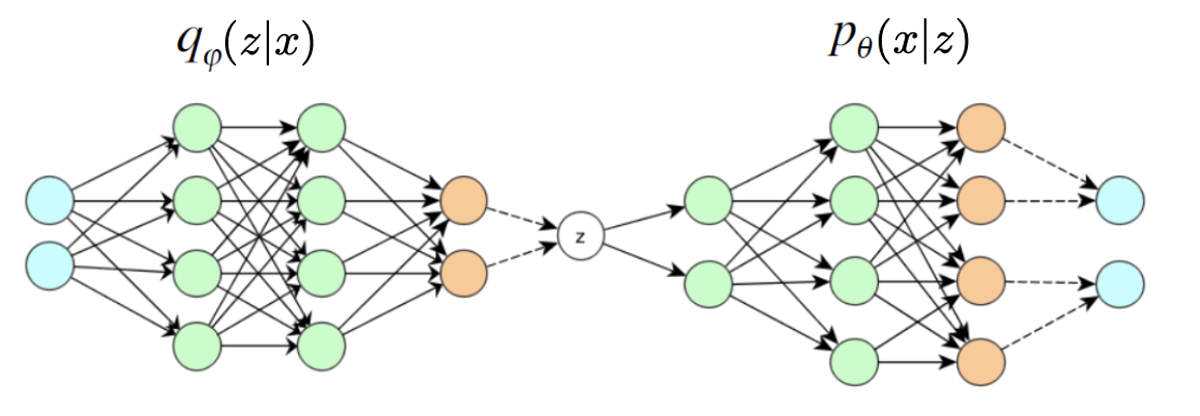
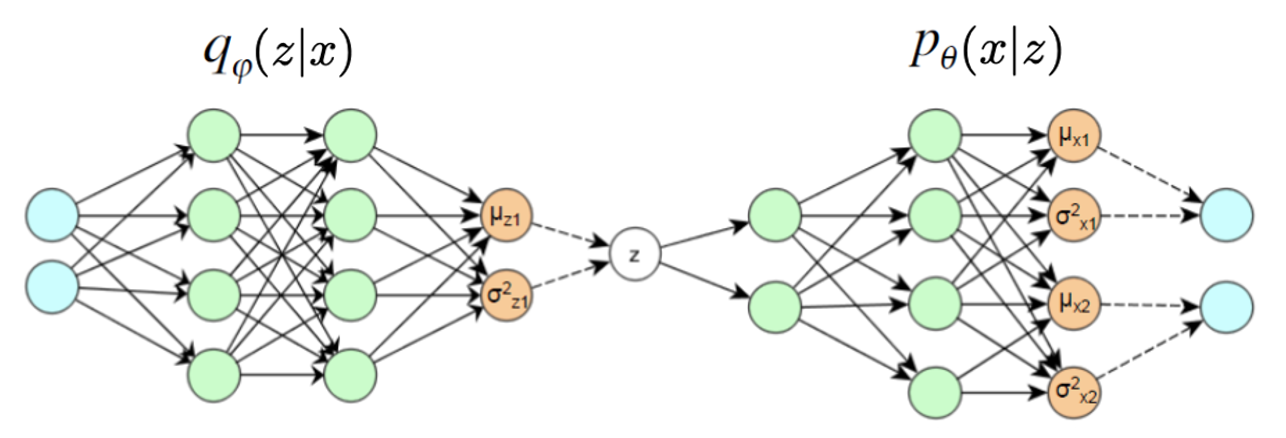
add vae for generation

Changed region(s): [[0.0, 0.25, 0.9867, 0.9688], [0.6783, 0.0312, 0.8325, 0.1562], [0.1233, 0.0625, 0.2775, 0.1875]]

diff --git a/37-neural-networks/13-variational-autoencoders.md b/37-neural-networks/13-variational-autoencoders.md
@@ -208,4 +208,27 @@ Interpretable dimensions of discrete variation dimensions can be
 
 Or, the representation just learn signal and get rid of noise.
 
+
+## Generation
+
+- Option 1. Draw z from the prior, feed through decoder to generate. [[Details](https://blog.openai.com/generative-models/)]
+
+- Option 2: Generation based on one or more examples $\boldsymbol{x}$
+
+  - Draw $\boldsymbol{z}$ from $q(\boldsymbol{z} |\boldsymbol{x})$
+  - Optionally, adjust $\boldsymbol{z}$ (e.g. interpolate between multiple samples $\boldsymbol{x} $)
+  - Feed through the decoder to generate more examples
+
+:::{figure} vae-generation
+<img src="../imgs/vae-generation.png" width = "60%" alt=""/>
+
+VAE for generation
+:::
+
+Compared to autoregressive models ??:
+- All outputs are generated jointly from the latent variables $\boldsymbol{z}$, so it can model arbitrary dependencies
+- More flexible: Can tweak $\boldsymbol{z}$ to control generation
+- Usually, more efficient to sample from distribution
+- Tend to produce blurrier outputs
+
 ## Extension: VQ-VAE
